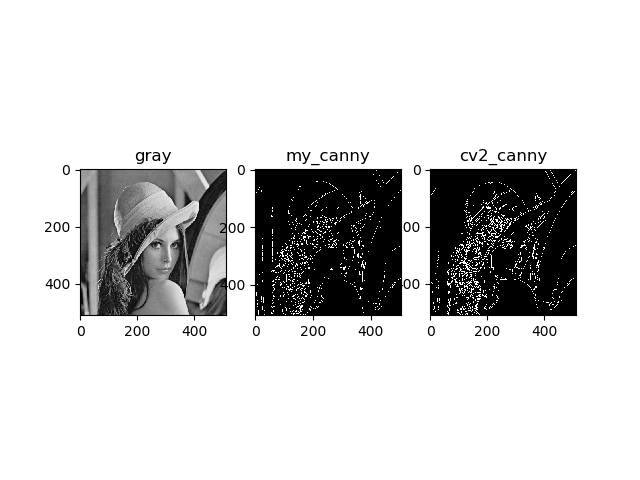
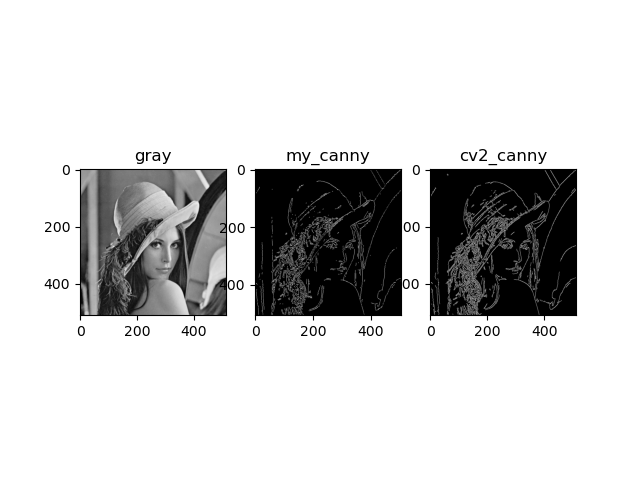
update canny

diff --git a/lab1/canny.py b/lab1/canny.py
@@ -66,16 +66,16 @@ def gradient(img):
                     nms[i, j] = 0
 
     out = np.zeros([w, h])
-    low = 0.13 * np.max(nms)
-    high = 0.25 * np.max(nms)
+    low = 0.08 * np.max(nms)
+    high = 0.16 * np.max(nms)
     for i in range(1, w-1):
         for j in range(1, h-1):
             if nms[i, j] < low:
                 out[i, j] = 0
             elif nms[i, j] > high:
                 out[i, j] = 255
-            elif ((nms[i-1, j-1: j+1] < high).any() or (nms[i+1, j-1: j+1] < high).any()
-                  or (nms[i, [j-1, j+1]] < high).any()):
+            elif ((nms[i-1, j-1: j+1] > high).any() or (nms[i+1, j-1: j+1] > high).any()
+                  or (nms[i, [j-1, j+1]] > high).any()):
                 out[i, j] = 255
     return out
 
